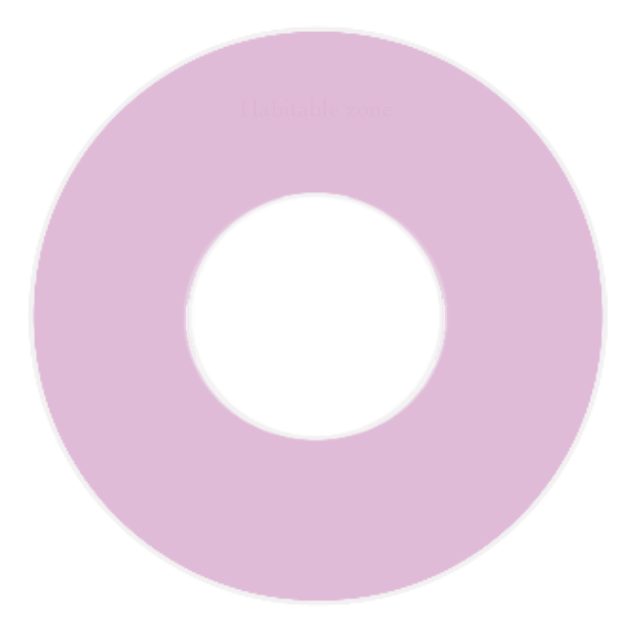
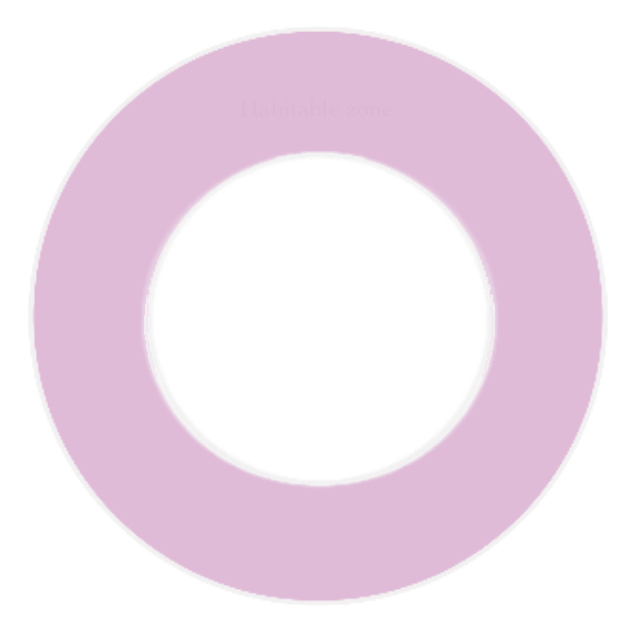
centered big galaxy lines

Changed region(s): [[0.2111, 0.2188, 0.7841, 0.7812]]

diff --git a/style.css b/style.css
@@ -128,8 +128,8 @@
     position:absolute;
     /* width:520px; */
     /* height:500px; */
-    width:35vw;
-    height:70vh;
-    top:28vh;
-    left:40vw;
+    width:50vw;
+    height:100vh;
+    top:5vh;
+    left:28vw;
 }
